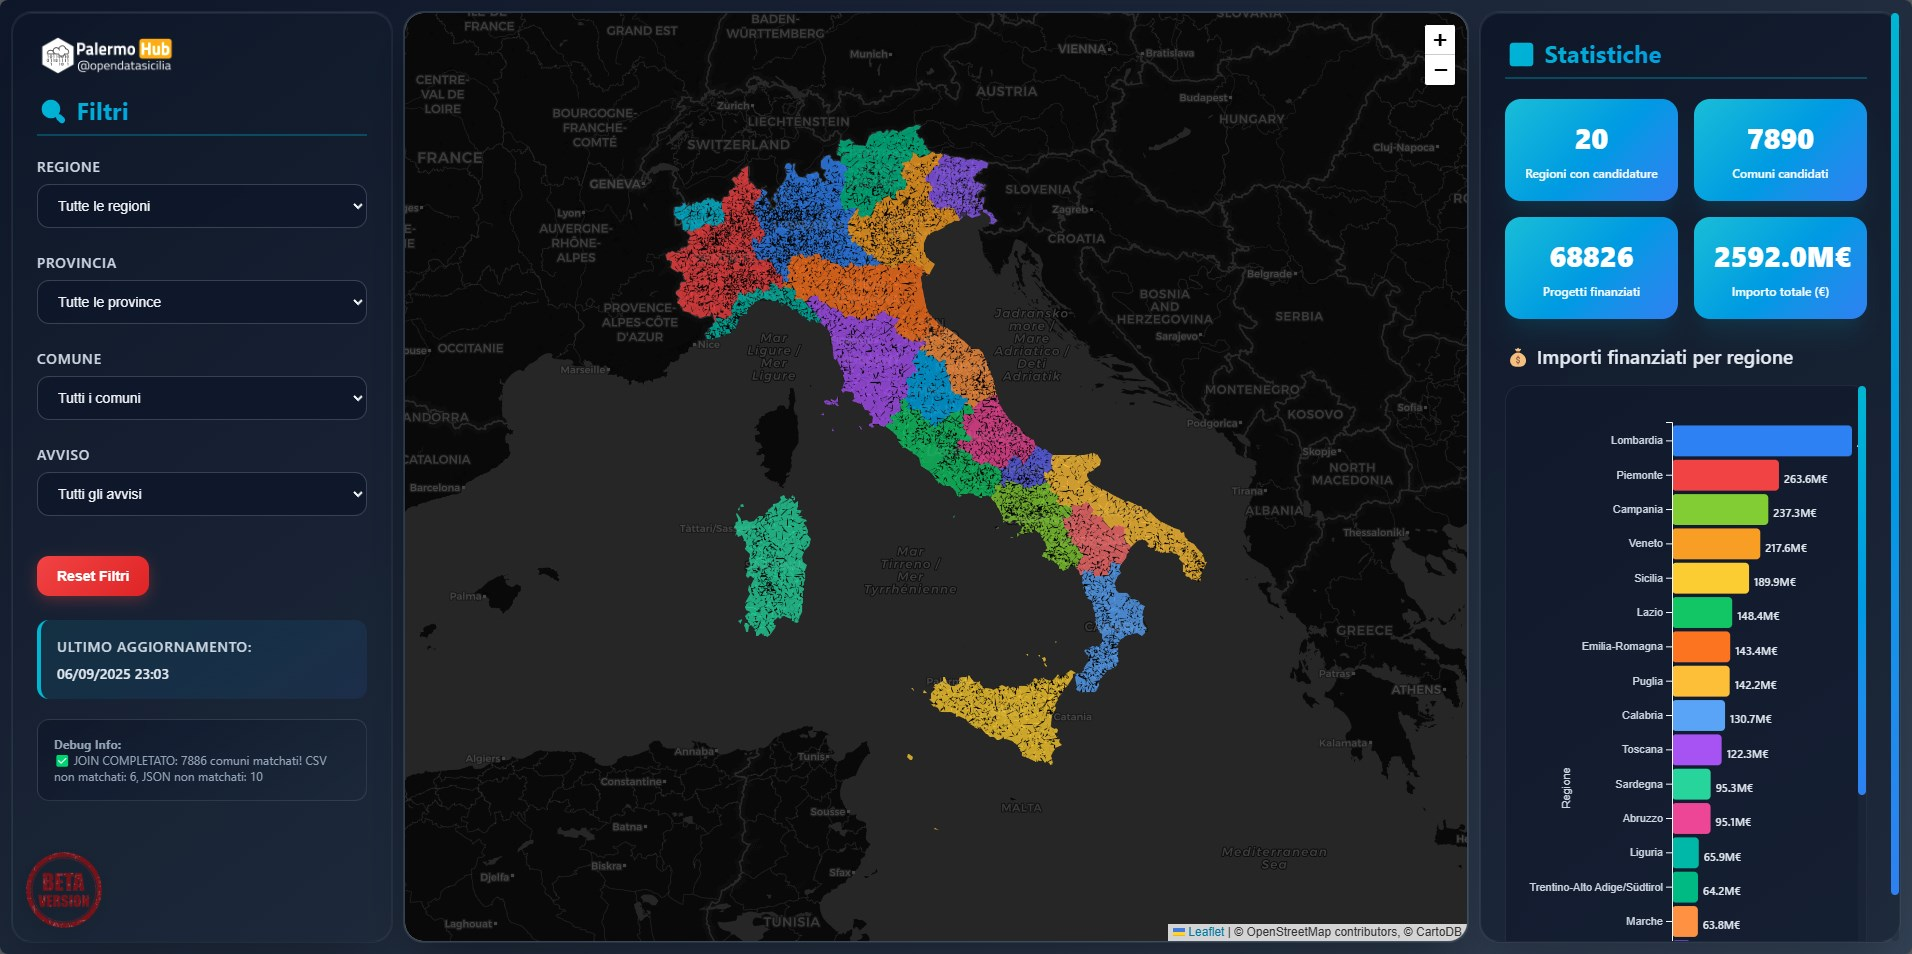
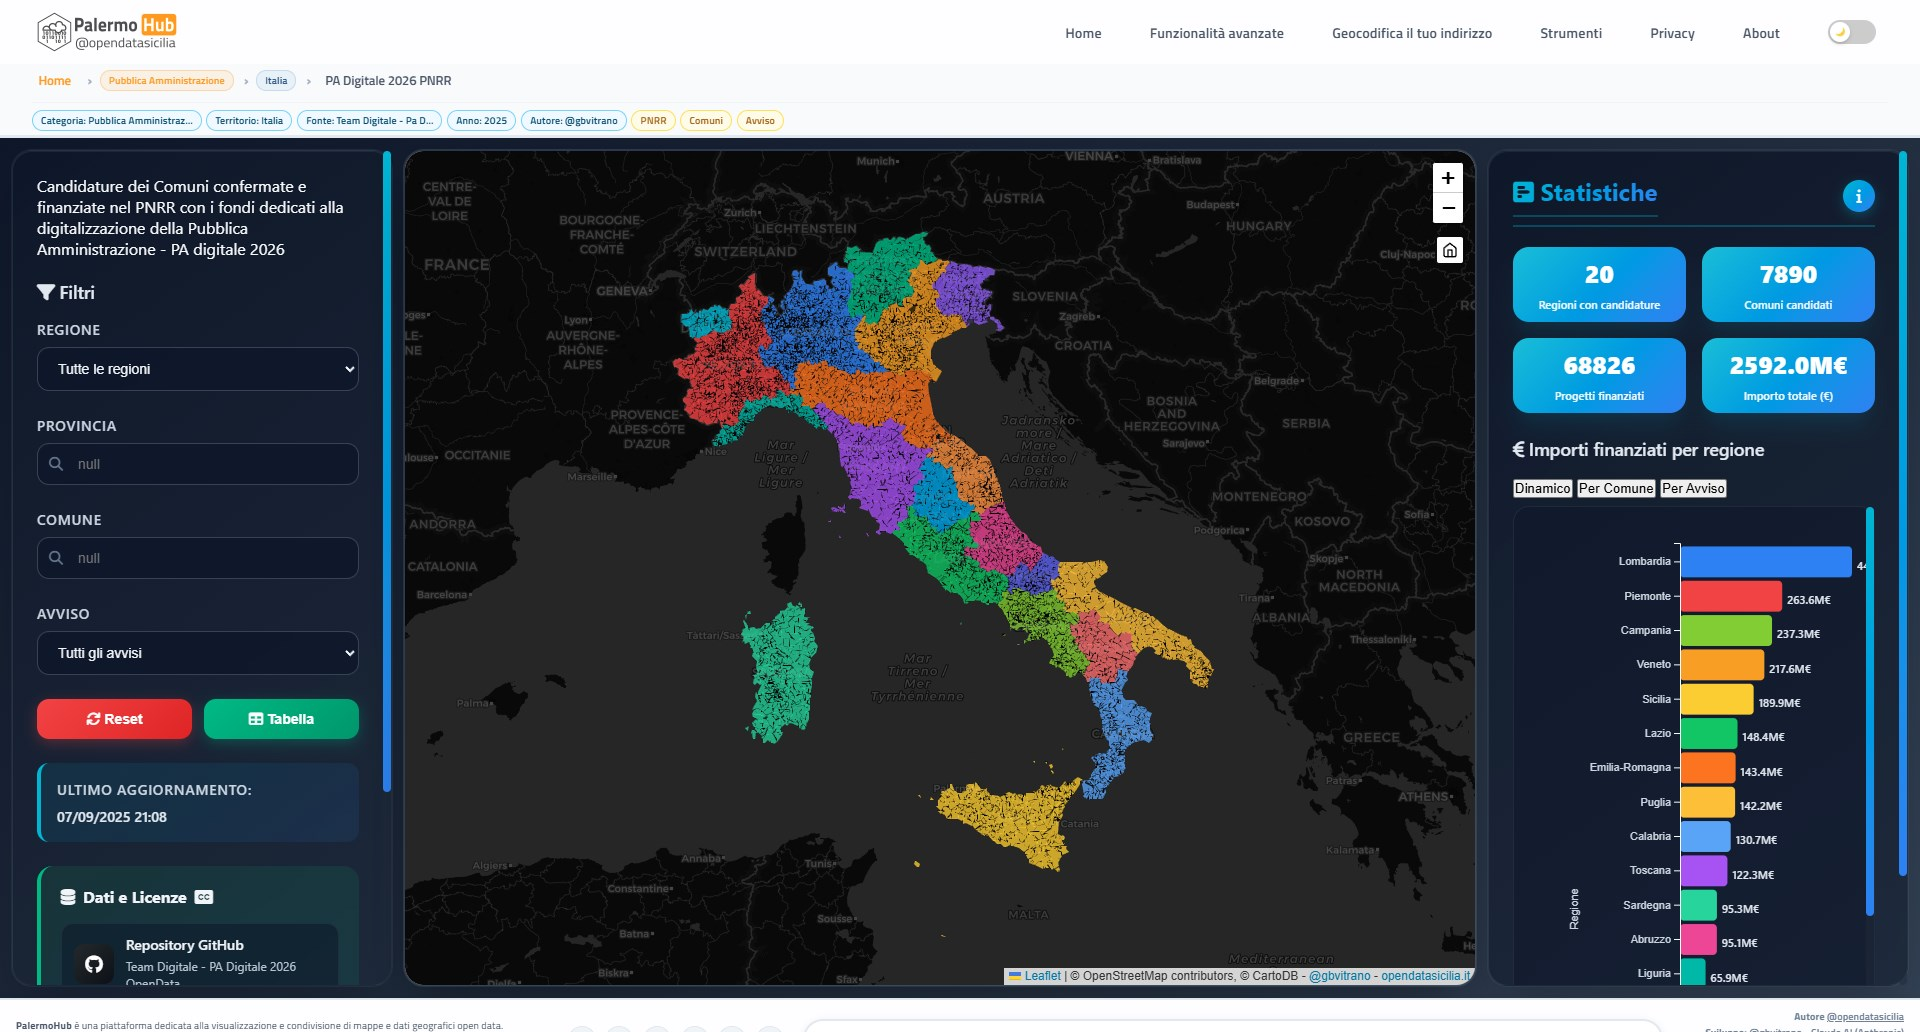
upgrade

diff --git a/Pa-Digitale-2026/index.html b/Pa-Digitale-2026/index.html
@@ -285,8 +285,8 @@
         <!-- Pannello sinistro - Filtri -->
         <div class="panel left-panel" id="desktopLeftPanel">
             <!-- Logo ODS prima del titolo filtri 
-            <img src="https://raw.githubusercontent.com/SiciliaHub/palermohub/PH-release-v2.0/legend/pa_hub_new_white.png" alt="Logo ODS" class="logo-ods">-->
-            <h2>PA Digitale 2026 PNRR </h2> 
+            <img src="https://raw.githubusercontent.com/SiciliaHub/palermohub/PH-release-v2.0/legend/pa_hub_new_white.png" alt="Logo ODS" class="logo-ods">
+            <h2>PA Digitale 2026 PNRR </h2> -->
 			<p>Candidature dei Comuni confermate e finanziate nel PNRR con i fondi dedicati alla digitalizzazione della Pubblica Amministrazione -  PA digitale 2026 </p><br>
             <h3><i class="fa-solid fa-filter"></i> Filtri</h3>
             

diff --git a/Pa-Digitale-2026/css/pa_digitale.css b/Pa-Digitale-2026/css/pa_digitale.css
@@ -40,7 +40,7 @@
         }
 
         .right-panel {
-            overflow-y: hidden;
+            overflow-y: auto;
             background: linear-gradient(145deg, rgba(15, 23, 42, 0.98), rgba(30, 41, 59, 0.95));
         }
 
